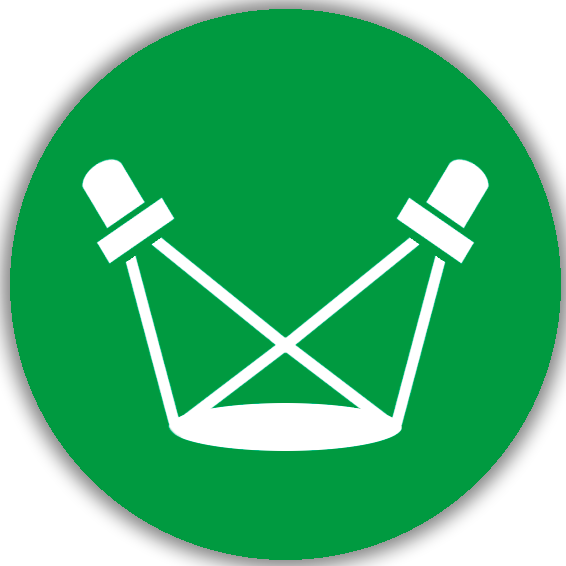
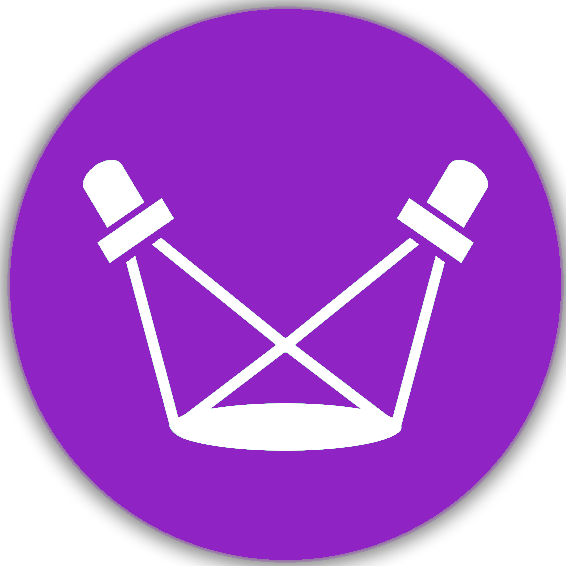
cor da navegacao + changes to friends

diff --git a/Relogio/Apps/Navigation App/style (Friends).css b/Relogio/Apps/Navigation App/style (Friends).css
@@ -1,5 +1,5 @@
 .iconApp {
-  background-color: rgb(0, 154, 64);
+  background-color: #8d23c2;
   border-radius: 50%;
   width: 90px;
   height: 90px;
